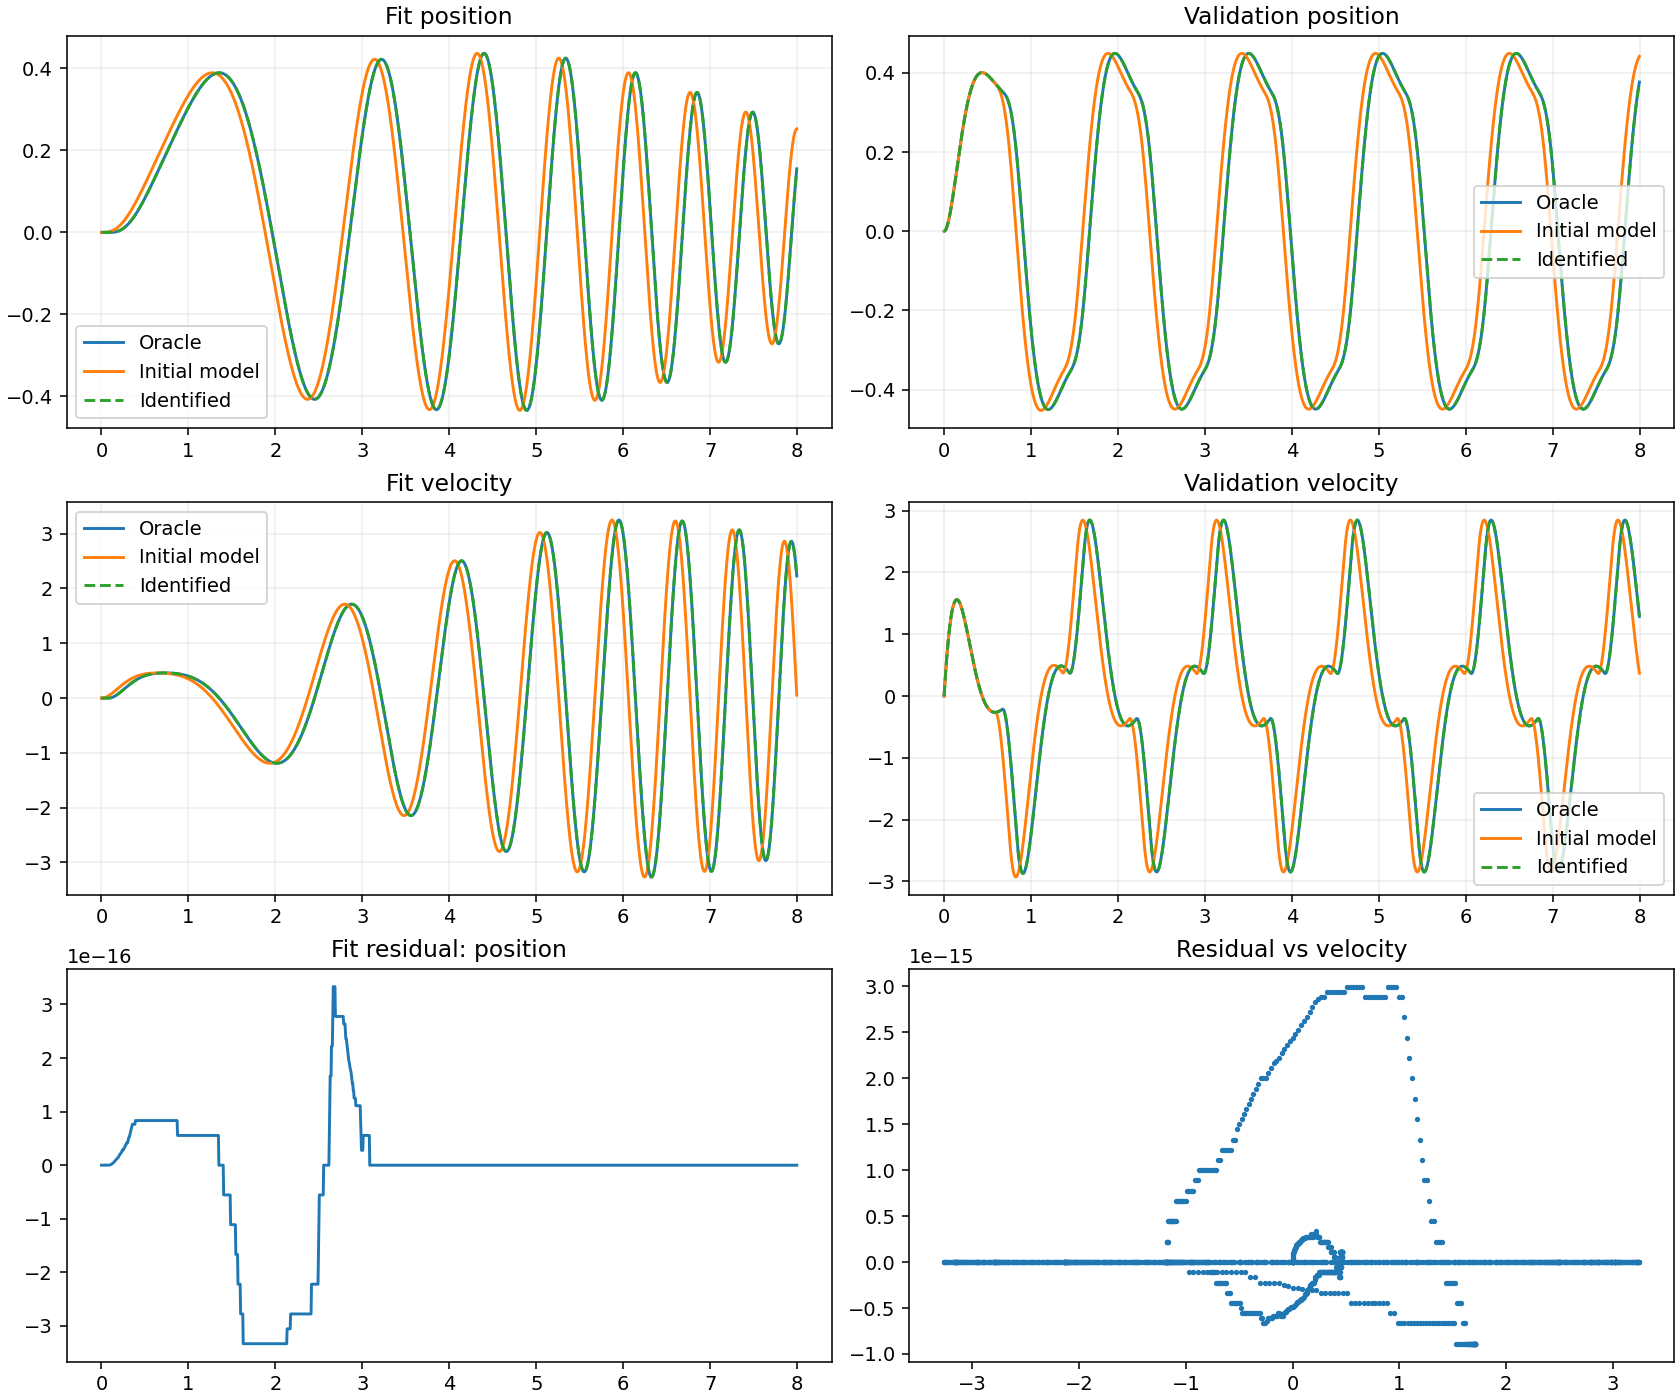
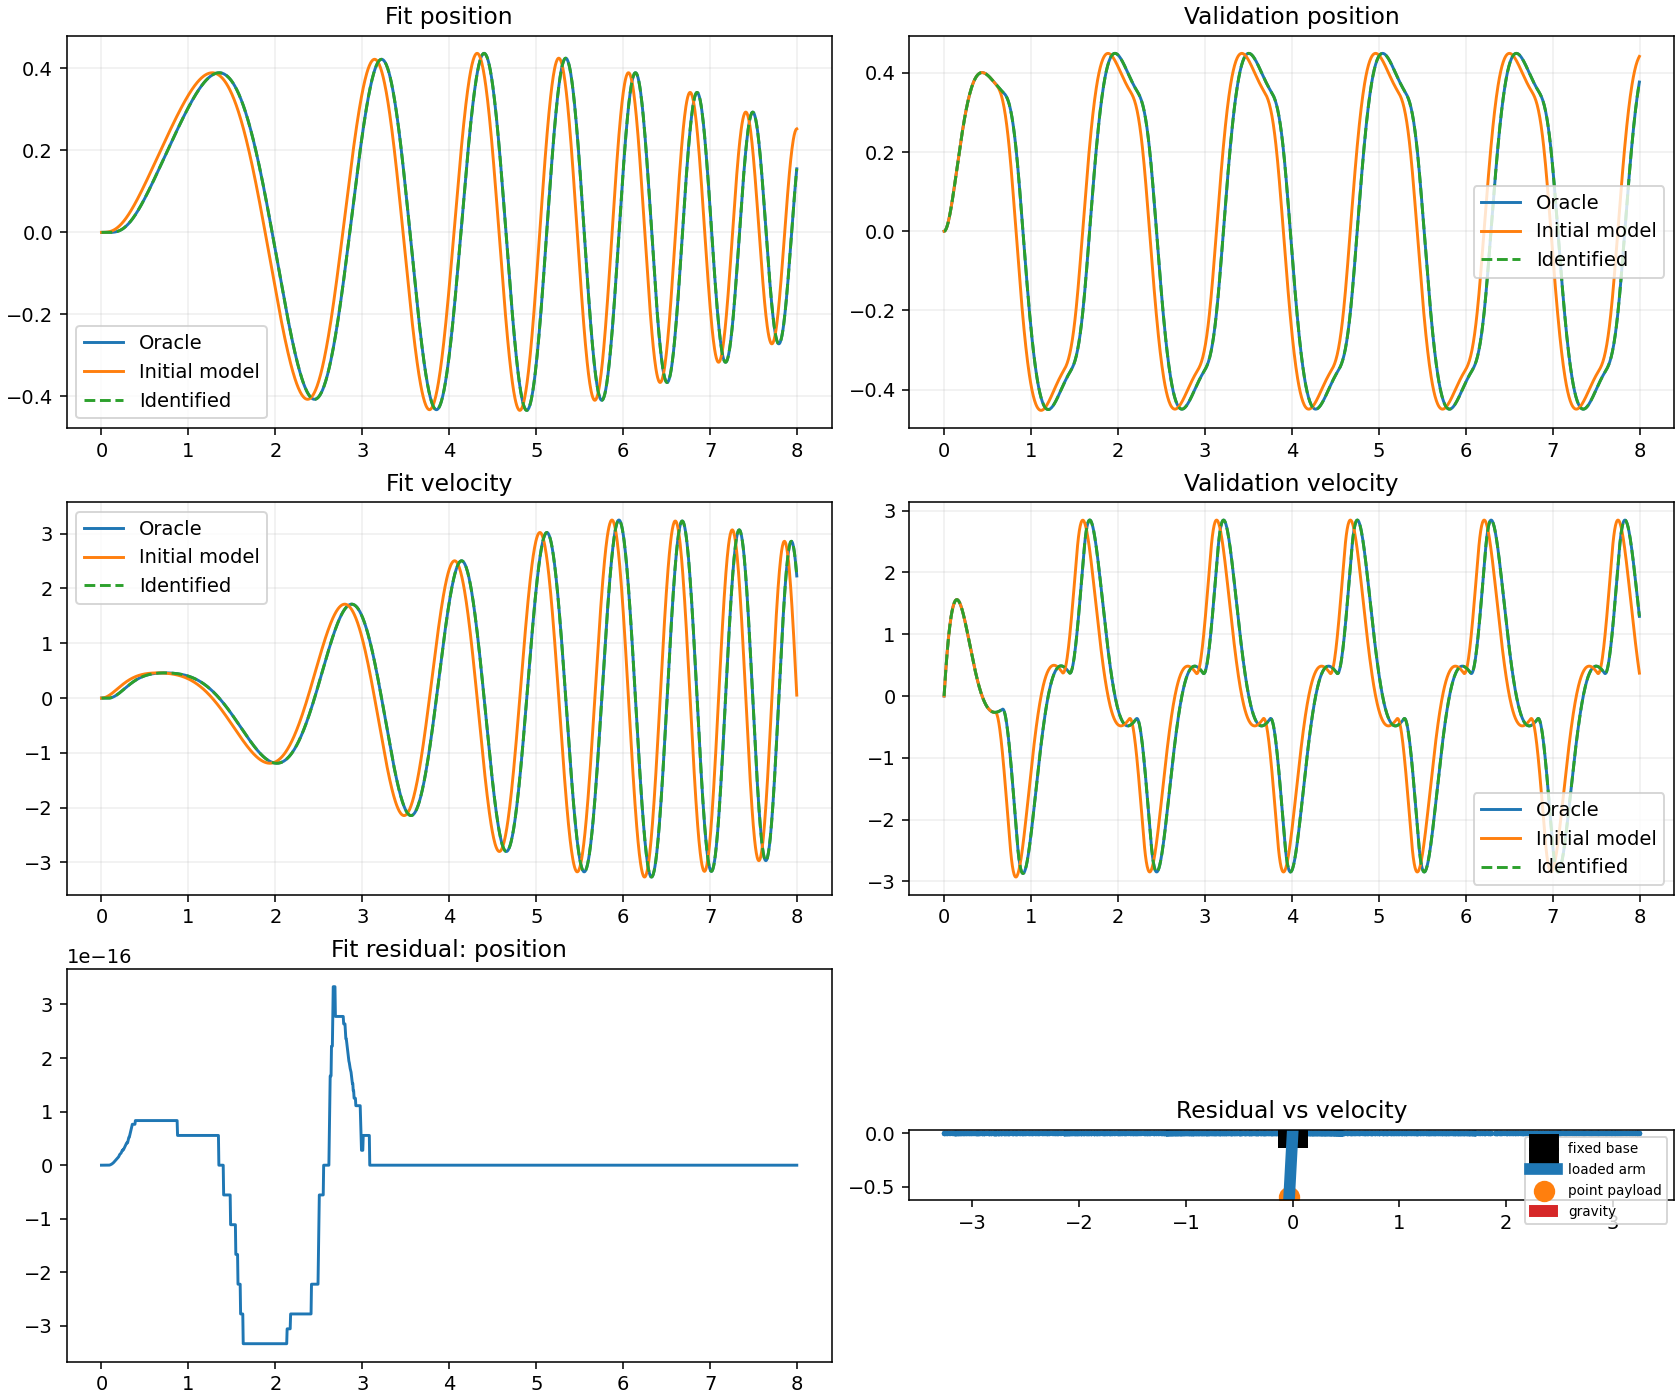
Add pendulum machine schematic to report

diff --git a/synthetic/l1_servo_loaded_pendulum.py b/synthetic/l1_servo_loaded_pendulum.py
@@ -48,6 +48,10 @@ def run_l1(c=None):
 def run_summary(r): return {'config_version':r.config.version,'metadata':r.data.metadata,'truth':asdict(r.config.truth),'initial':asdict(r.config.initial),'identified':asdict(r.fit.params),'fit':{'initial':asdict(r.initial_fit),'identified':asdict(r.identified_fit)},'validation':{'initial':asdict(r.initial_validation),'identified':asdict(r.identified_validation)},'effective_delay_note':'identified delay is boundary and sampling dependent'}
 def plot_run(r,path):
  p=Path(path); p.parent.mkdir(parents=True,exist_ok=True); d=r.data; iq,iqd=simulate(r.config,d.fit.q_des,delay_s=r.config.initial.delay_s); fq,fqd=simulate(r.config,d.fit.q_des,delay_s=r.fit.params.delay_s); iv,ivd=simulate(r.config,d.validation.q_des,delay_s=r.config.initial.delay_s); fv,fvd=simulate(r.config,d.validation.q_des,delay_s=r.fit.params.delay_s); fig,ax=plt.subplots(3,2,figsize=(12,10),constrained_layout=True)
+ ax[2,1].plot([0,0],[0,0],marker='s',markersize=14,color='black',label='fixed base')
+ angle=float(d.validation.q[len(d.validation.q)//2]); ax[2,1].plot([0,r.config.arm_length*np.sin(angle)],[0,-r.config.arm_length*np.cos(angle)],linewidth=6,color='tab:blue',label='loaded arm')
+ ax[2,1].scatter([r.config.arm_length*np.sin(angle)],[-r.config.arm_length*np.cos(angle)],s=100,color='tab:orange',label='point payload')
+ ax[2,1].arrow(0,0,0,-.3,length_includes_head=True,color='tab:red',label='gravity'); ax[2,1].set_aspect('equal'); ax[2,1].set_title('Machine schematic (synthetic)'); ax[2,1].legend(fontsize=7)
  for a,t,o,i,f,title in [(ax[0,0],d.fit.t,d.fit.q,iq,fq,'Fit position'),(ax[0,1],d.validation.t,d.validation.q,iv,fv,'Validation position'),(ax[1,0],d.fit.t,d.fit.qd,iqd,fqd,'Fit velocity'),(ax[1,1],d.validation.t,d.validation.qd,ivd,fvd,'Validation velocity')]: a.plot(t,o,label='Oracle'); a.plot(t,i,label='Initial model'); a.plot(t,f,'--',label='Identified'); a.set_title(title); a.legend(); a.grid(alpha=.2)
  ax[2,0].plot(d.fit.t,fq-d.fit.q); ax[2,0].set_title('Fit residual: position'); ax[2,1].scatter(d.fit.qd,fqd-d.fit.qd,s=3); ax[2,1].set_title('Residual vs velocity'); fig.savefig(p,dpi=140); plt.close(fig); return p
 def write_report(r,out):
